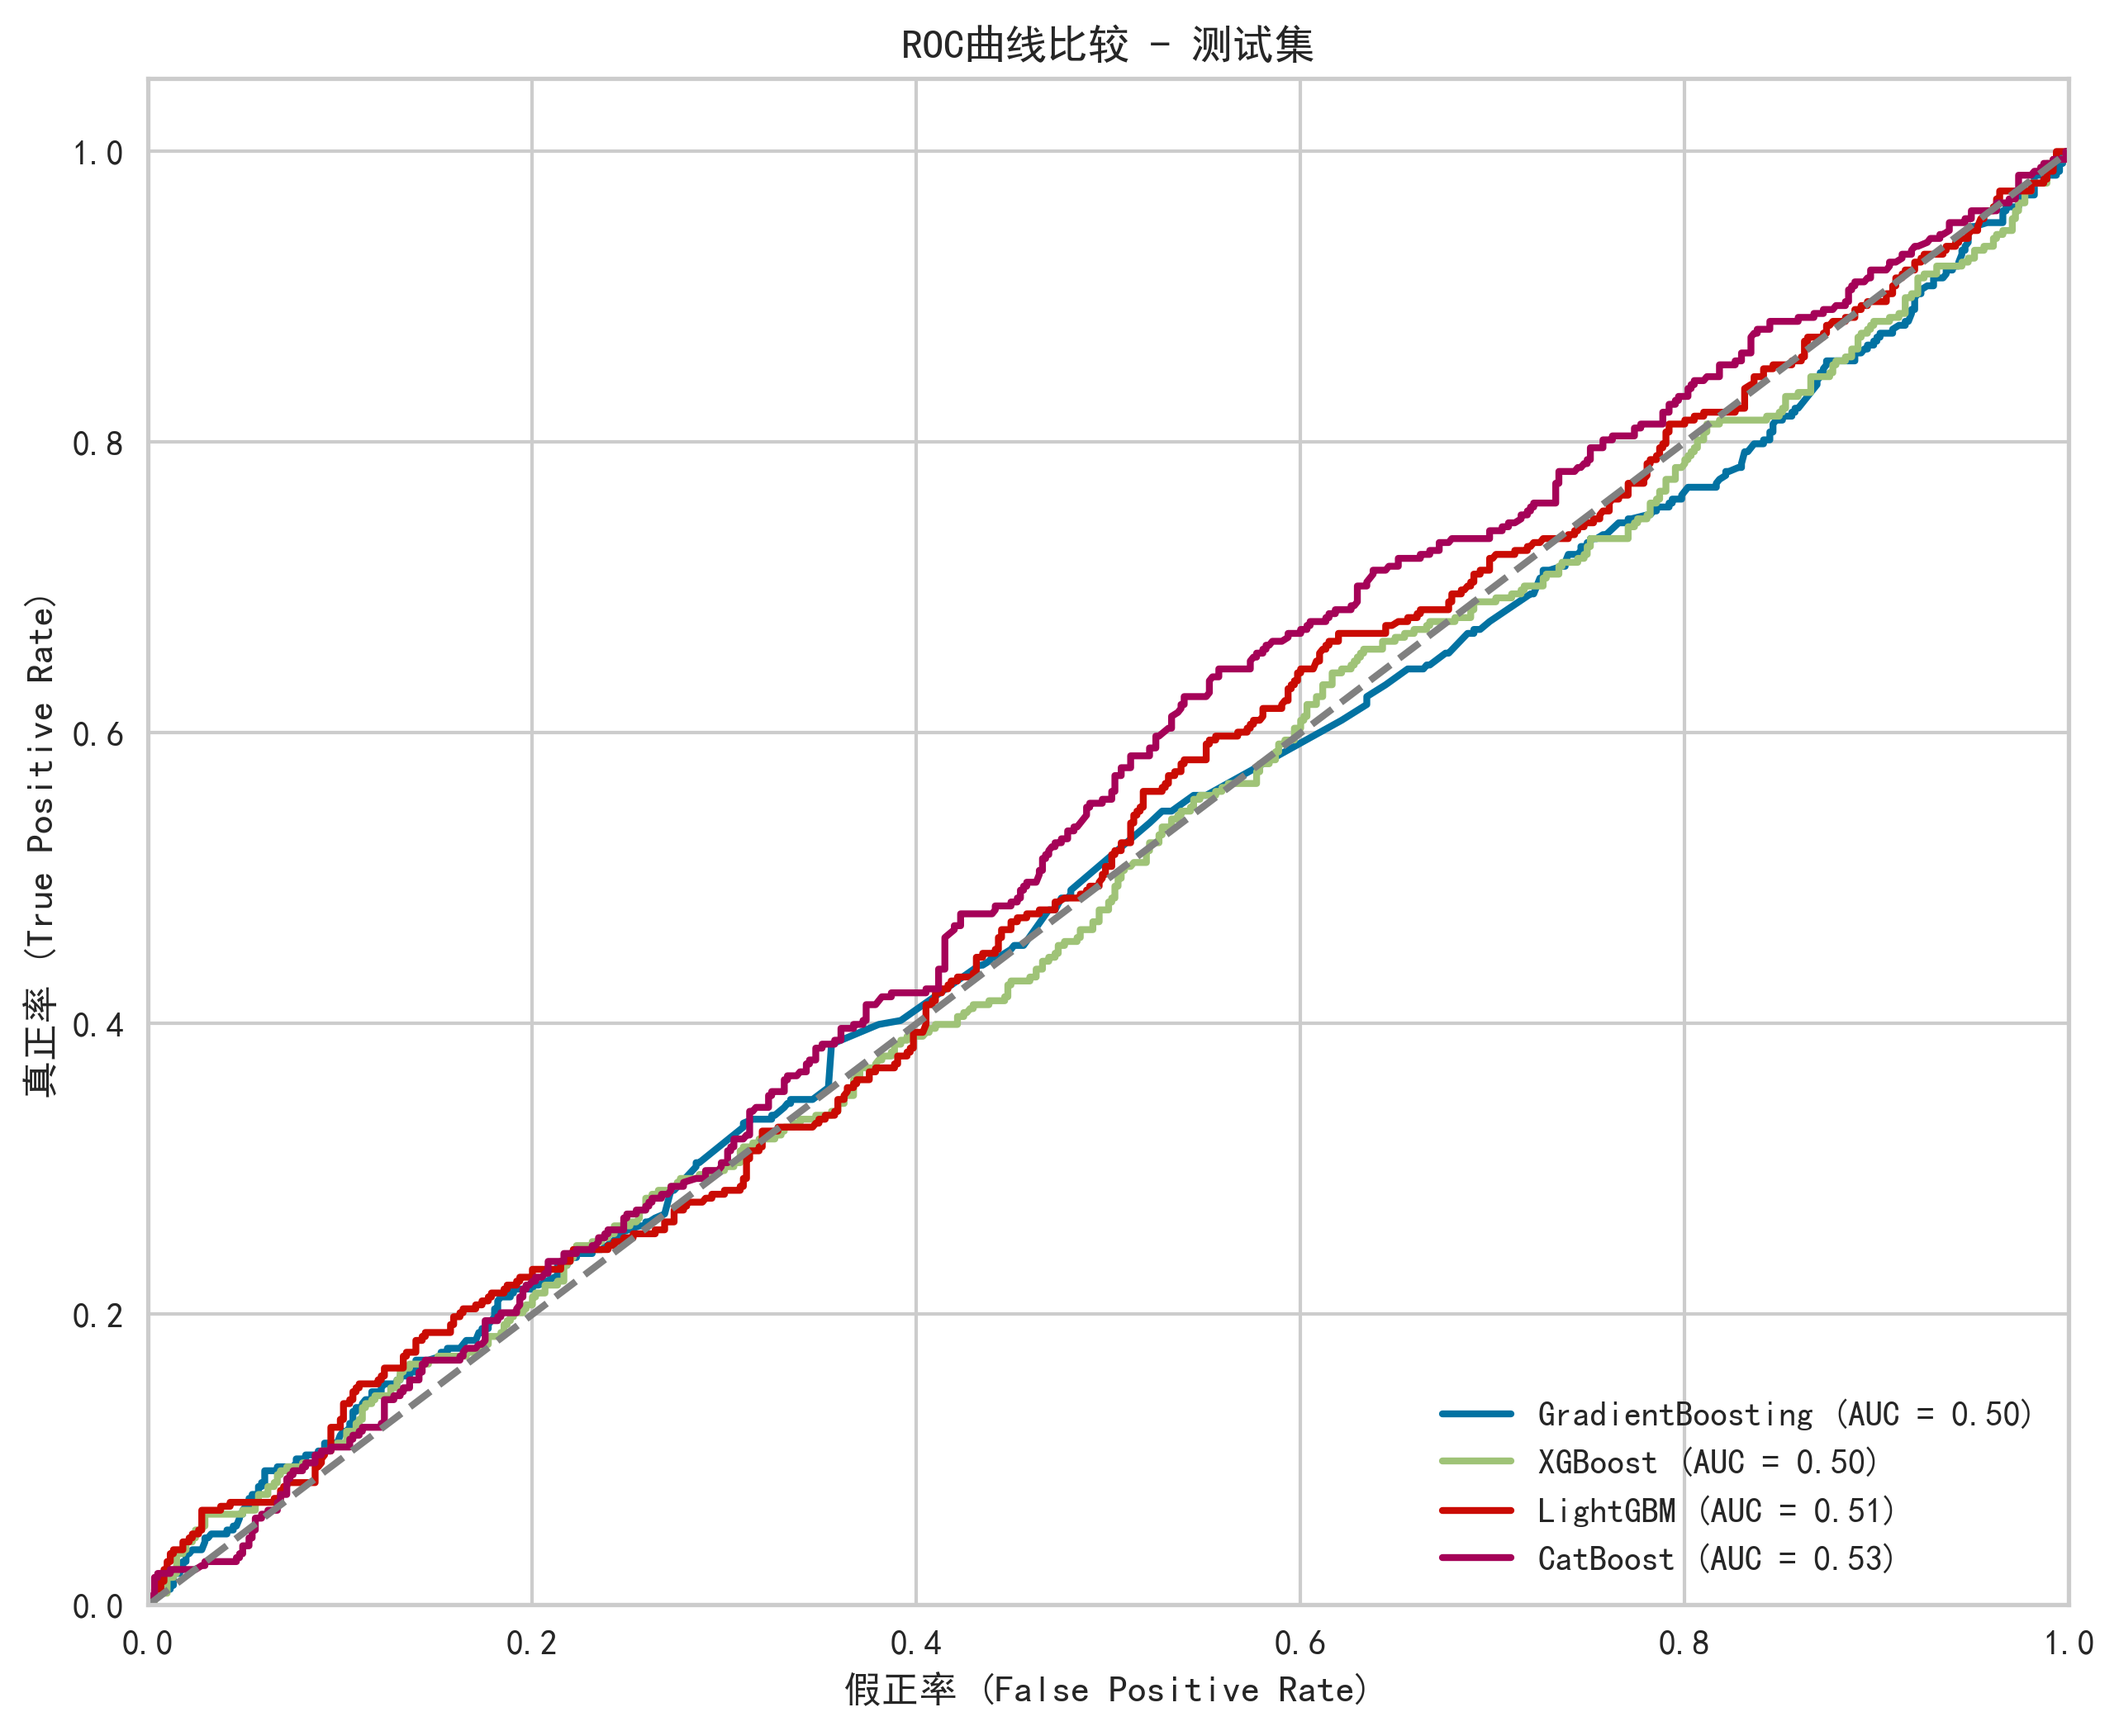
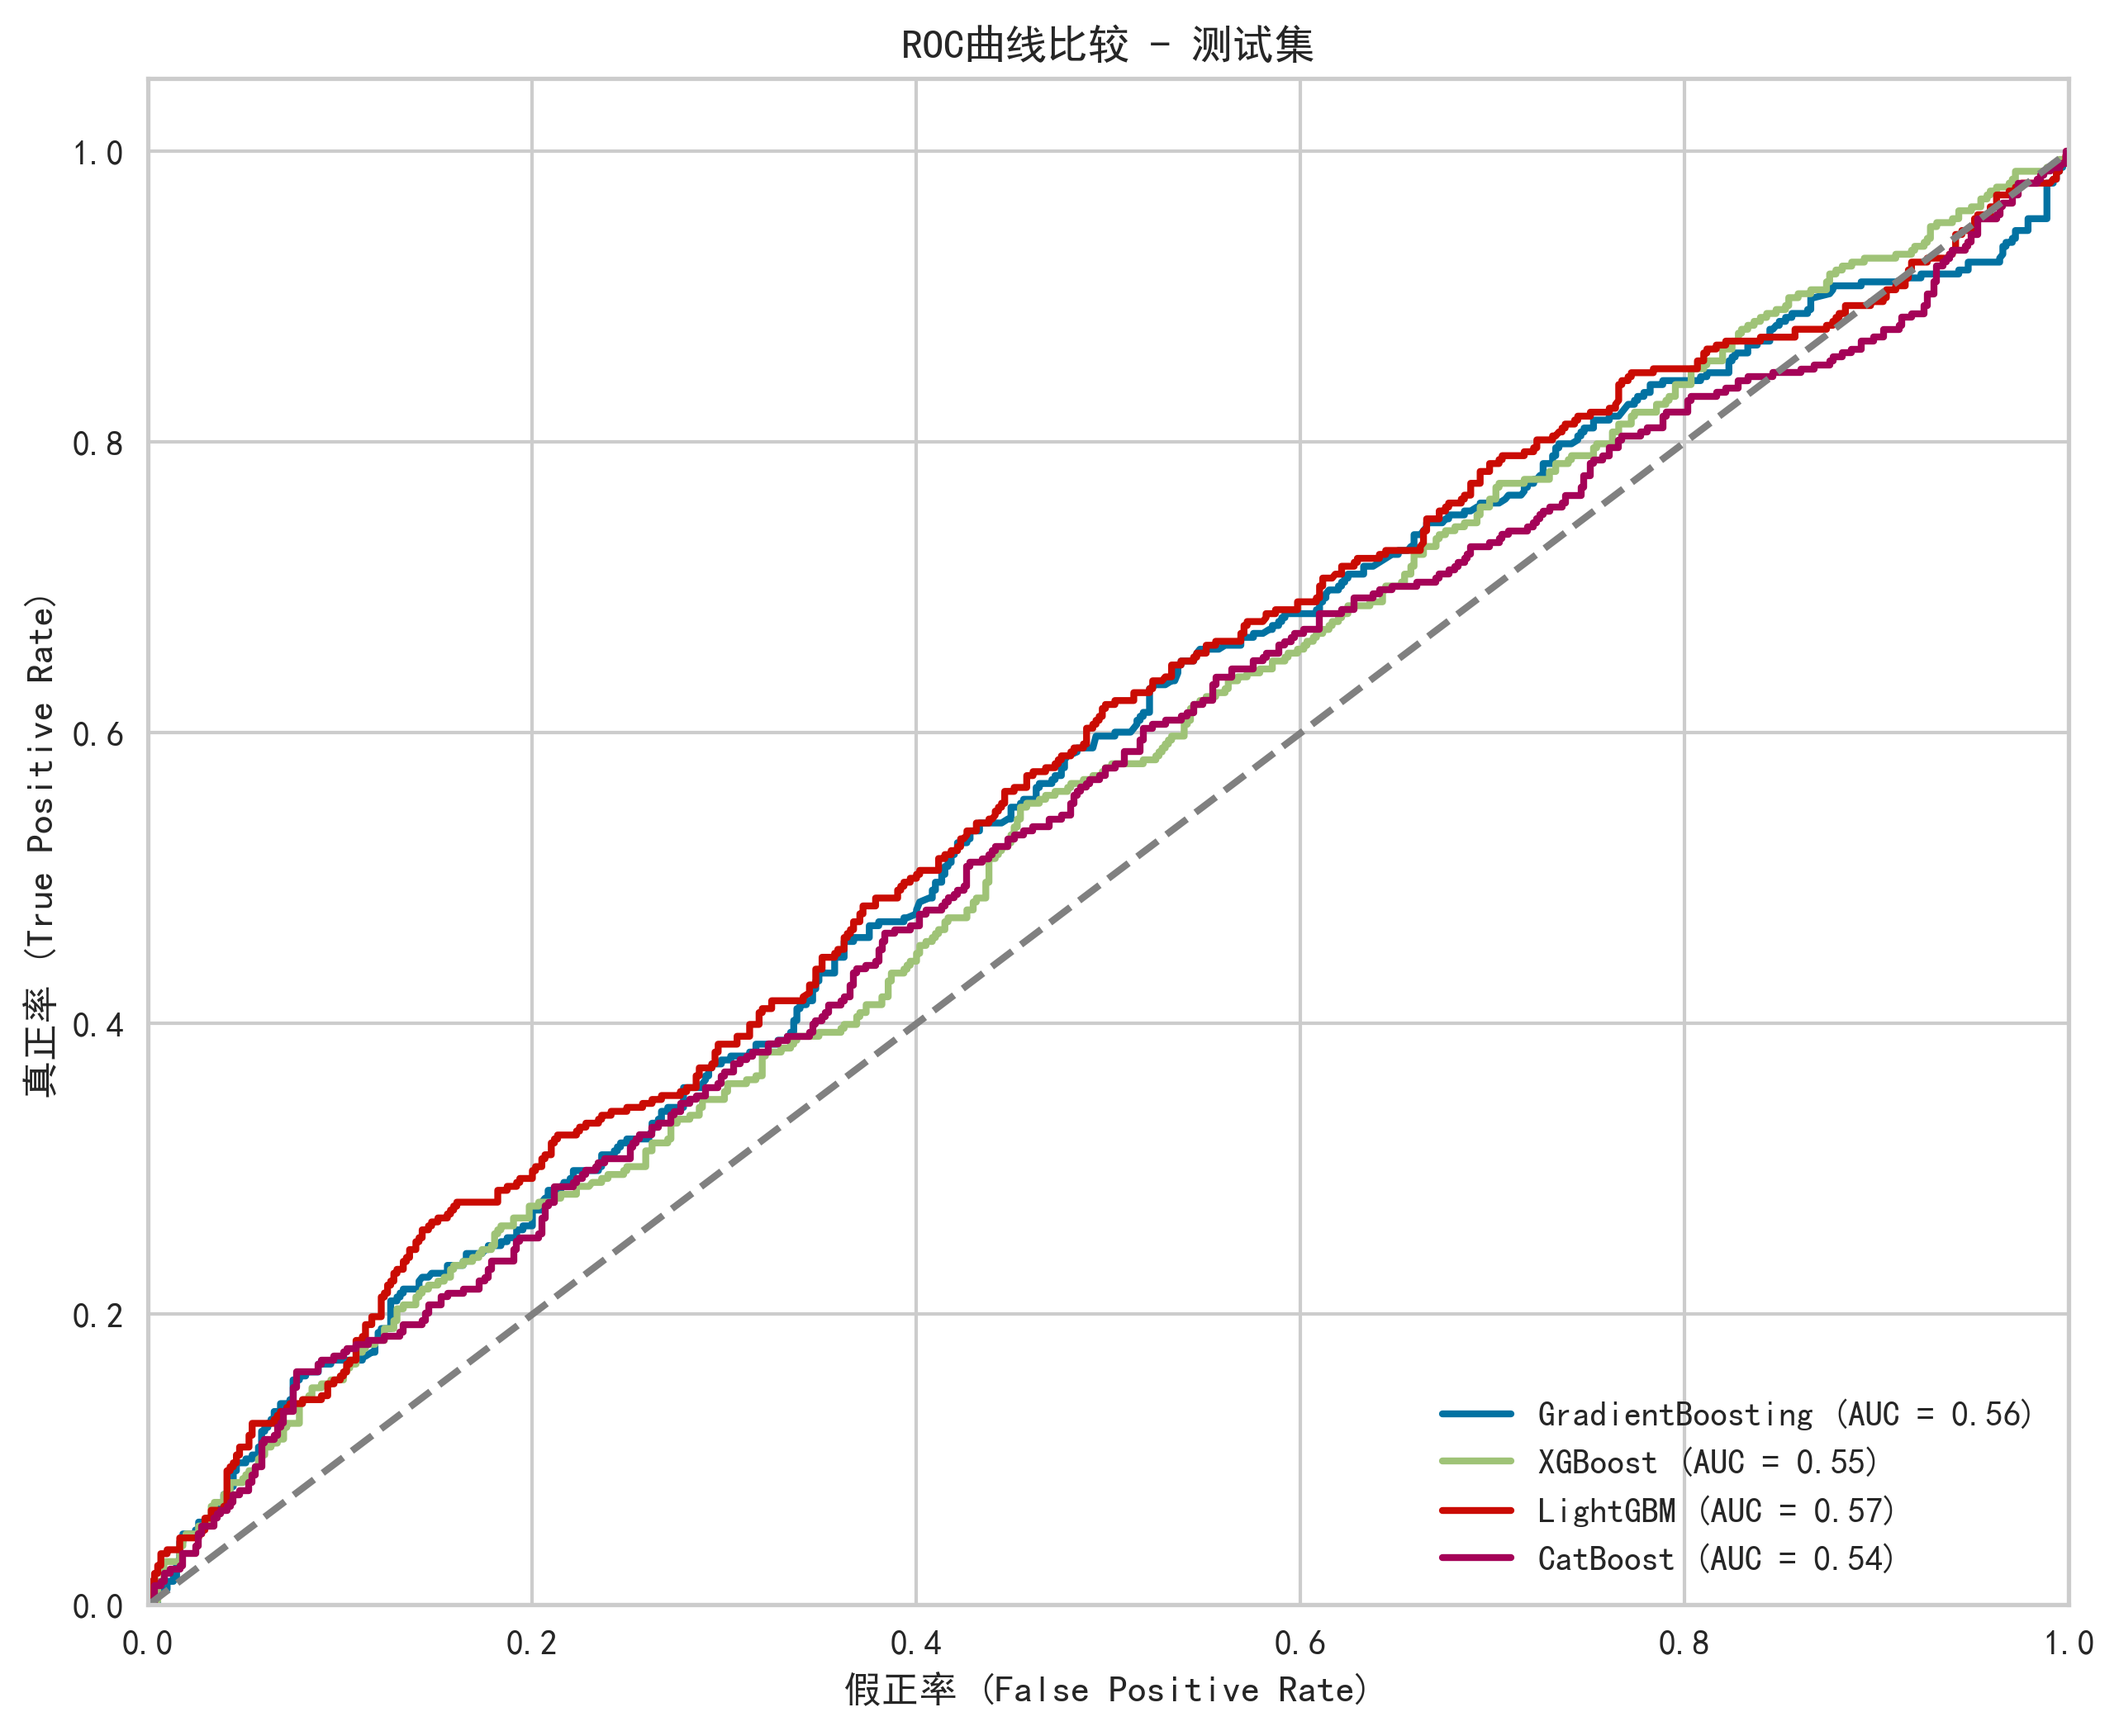
feat(feature_engineering): improve feature selection pipeline with progressive VIF removal
- Implement progressive VIF removal to retain more informative features
- Increase number of features retained in univariate and RFE selection
- Relax VIF threshold from 10.0 to 15.0 to preserve more features
- Add detailed feature statistics logging for better debugging
- Update model performance metrics and plots due to improved features

Changed region(s): [[0.0624, 0.093, 0.9669, 0.9303]]

diff --git a/src/feature_engineering.py b/src/feature_engineering.py
@@ -157,29 +157,77 @@ class FeatureEngineer:
             print(f"VIF分析失败: {e}")
             return []
     
+    def _progressive_vif_removal(self, X: pd.DataFrame, features: List[str], threshold: float = 15.0) -> List[str]:
+        """渐进式移除高VIF特征"""
+        try:
+            remaining_features = features.copy()
+            X_current = X[remaining_features]
+            
+            while True:
+                # 只对数值型特征计算VIF
+                numeric_features = X_current.select_dtypes(include=[np.number]).columns
+                X_numeric = X_current[numeric_features]
+                
+                if X_numeric.shape[1] < 2:
+                    break
+                
+                # 计算当前特征的VIF
+                vif_data = pd.DataFrame()
+                vif_data["Feature"] = X_numeric.columns
+                vif_data["VIF"] = [
+                    variance_inflation_factor(X_numeric.values, i) 
+                    for i in range(X_numeric.shape[1])
+                ]
+                
+                # 找出VIF最高的特征
+                max_vif_row = vif_data.loc[vif_data["VIF"].idxmax()]
+                max_vif_feature = max_vif_row["Feature"]
+                max_vif_value = max_vif_row["VIF"]
+                
+                # 如果最高VIF低于阈值，停止移除
+                if max_vif_value <= threshold:
+                    break
+                
+                # 移除VIF最高的特征
+                remaining_features.remove(max_vif_feature)
+                X_current = X_current.drop(columns=[max_vif_feature])
+                print(f"移除高VIF特征: {max_vif_feature} (VIF: {max_vif_value:.2f})")
+                
+                # 如果特征数量过少，停止移除
+                if len(remaining_features) <= 5:
+                    print(f"特征数量已降至 {len(remaining_features)}，停止移除")
+                    break
+            
+            print(f"VIF移除完成，保留 {len(remaining_features)} 个特征")
+            return remaining_features
+            
+        except Exception as e:
+            print(f"渐进式VIF移除失败: {e}")
+            return features
+    
     def apply_feature_selection_pipeline(self, X_train: pd.DataFrame, y_train: pd.Series,
                                        X_test: pd.DataFrame) -> Tuple[pd.DataFrame, pd.DataFrame]:
         """应用完整的特征选择流水线"""
         print("\n=== 开始特征选择流水线 ===")
         
-        # 1. 单变量特征选择
+        # 1. 单变量特征选择 - 增加保留特征数量
         print("\n1. 单变量特征选择")
-        univariate_features = self.select_features_univariate(X_train, y_train, k=20)
+        univariate_features = self.select_features_univariate(X_train, y_train, k=25)
         X_train_uni = X_train[univariate_features]
         X_test_uni = X_test[univariate_features]
         
-        # 2. RFE特征选择
+        # 2. RFE特征选择 - 增加保留特征数量
         print("\n2. 递归特征消除")
-        rfe_features = self.select_features_rfe(X_train_uni, y_train, n_features=15)
+        rfe_features = self.select_features_rfe(X_train_uni, y_train, n_features=20)
         X_train_rfe = X_train_uni[rfe_features]
         X_test_rfe = X_test_uni[rfe_features]
         
-        # 3. 多重共线性检查
+        # 3. 多重共线性检查 - 放宽VIF阈值
         print("\n3. 多重共线性检查")
-        high_vif_features = self.check_multicollinearity(X_train_rfe, threshold=10.0)
+        high_vif_features = self.check_multicollinearity(X_train_rfe, threshold=15.0)
         
-        # 移除高VIF特征
-        final_features = [f for f in rfe_features if f not in high_vif_features]
+        # 渐进式移除高VIF特征，而不是一次性全部移除
+        final_features = self._progressive_vif_removal(X_train_rfe, rfe_features, threshold=15.0)
         X_train_final = X_train_rfe[final_features]
         X_test_final = X_test_rfe[final_features]
         
@@ -187,5 +235,13 @@ class FeatureEngineer:
         print(f"原始特征数: {X_train.shape[1]}")
         print(f"最终特征数: {len(final_features)}")
         print(f"最终特征: {final_features}")
+        
+        # 打印最终特征的统计信息
+        print(f"\n=== 最终特征集 统计信息 ===")
+        print(f"特征数量: {len(final_features)}")
+        print(f"样本数量: {X_train_final.shape[0]}")
+        print("特征列表:")
+        for i, feature in enumerate(final_features, 1):
+            print(f"   {i}. {feature}")
         
         return X_train_final, X_test_final
